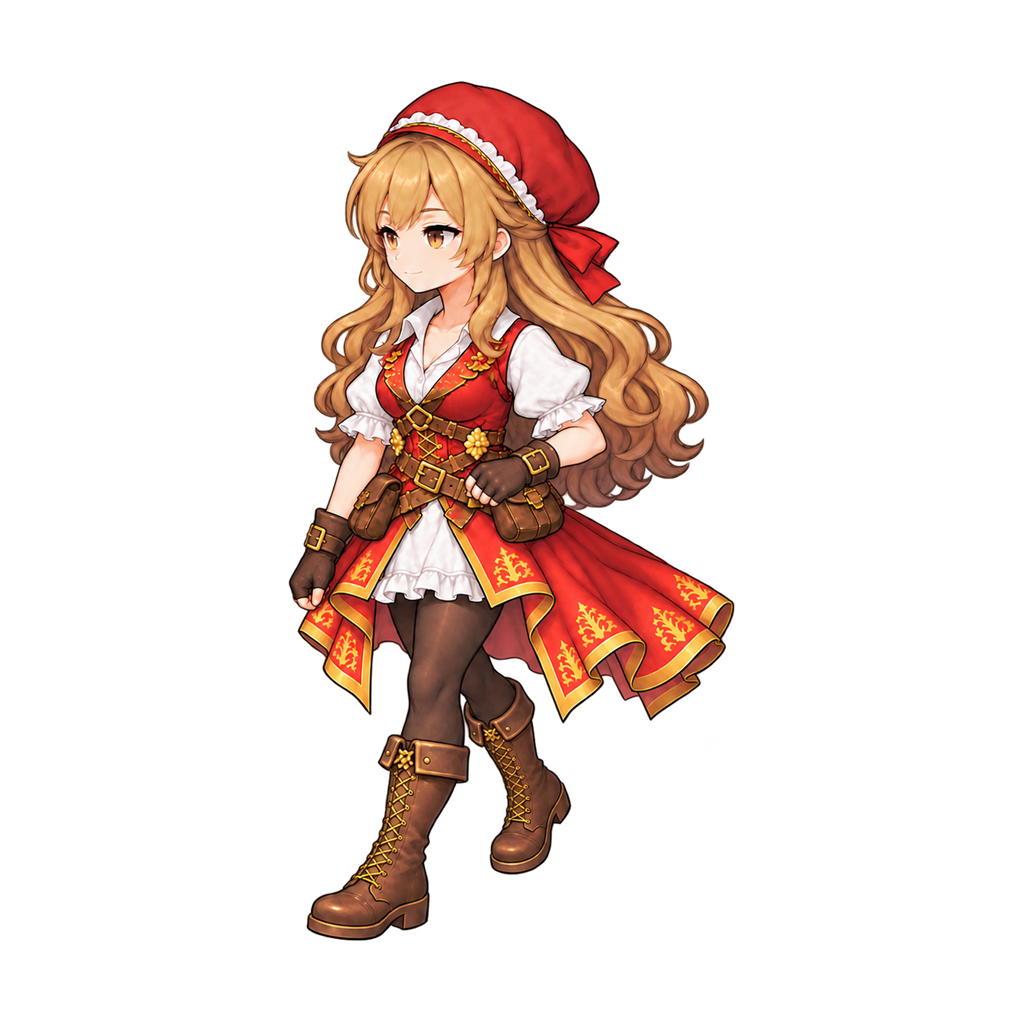
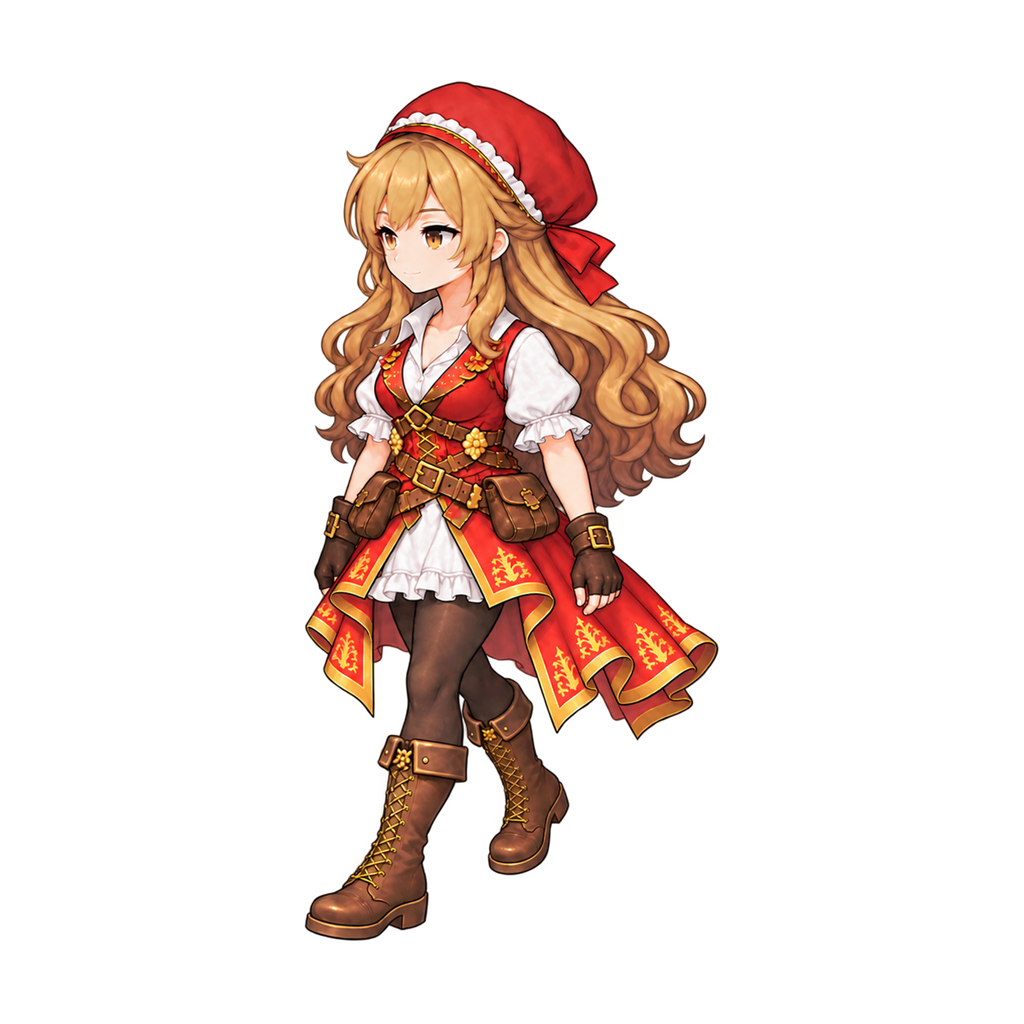
主人公の斜め向きの歩きをゲームに入れる（左下・右下・左上・右上。右は左の反転）
- 歩きの絵のシートに斜めの4行を足す（adult_walk_build.py に --diag。1枚ずつ背の高さをそろえる）
- 斜めに1歩進むと斜めの絵を使う。セーブや「しらべる」の向きは上下左右のまま
- 女性の斜め前の右足前は新しい版を採用（前の版は _old で保管）。左足前は最初に届いた版を使う
- 引き継ぎメモを更新

Claude-Session: https://claude.ai/code/session_01Hh9KBirM4TSyGEjgFpdddq

diff --git a/src/ui/screens/worldScreen.ts b/src/ui/screens/worldScreen.ts
@@ -151,11 +151,17 @@ const FRAME_H = 288;
 const FOOT_X = 108;
 const FOOT_Y = 270;
 const DIR_ROW: Readonly<Record<Direction, number>> = { down: 0, up: 1, left: 2, right: 3 };
+/** 主人公の斜め向き（絵の向きだけ。セーブや「しらべる」の向きは上下左右の Direction のまま） */
+type Diagonal = 'downleft' | 'downright' | 'upleft' | 'upright';
+/** 主人公のシートの斜め向きの行（上下左右の4行の下に足した4行） */
+const DIAG_ROW: Readonly<Record<Diagonal, number>> = { downleft: 4, downright: 5, upleft: 6, upright: 7 };
+/** 主人公のシートの行の数 */
+const PLAYER_SHEET_ROWS = 8;
 /** 待機の絵が歩行シートの何列目と同じか（歩き4コマは「右足を前・立つ・左足を前・立つ」なので2列目） */
 const NPC_IDLE_COL = 1;
 
 /**
- * 主人公の絵：歩き4コマ＋立ち止まり1コマを1枚にまとめたシート（5列×4行）。
+ * 主人公の絵：歩き4コマ＋立ち止まり1コマを1枚にまとめたシート（5列×8行。行は 正面・背中・左・右・左下・右下・左上・右上）。
  * 歩く・止まるで別の画像に切り替えると、iPhone で読み込み直しの間だけ人物が消えるので、1枚の中で位置だけ動かす。
  * 2026-10-23 の大人の絵（男性・女性。tools/art/adult_walk_build.py が作る。右足を前・立つ・左足を前・立つ・立ち止まり）
  */
@@ -201,7 +207,7 @@ const TILE_CLASS: Readonly<Record<string, string>> = {
 const coins = (n: number): string => t('common.coins', { n } satisfies Params);
 
 /**
- * 1歩の向き → 人物の向き（斜めの絵は無い）。
+ * 1歩の向き → 人物の向き（上下左右。主人公の斜めの絵は別に #diag で選ぶ）。
  * いまの向きの成分がある斜め（例：右を向いて右下へ）は向きを変えない。斜め45度あたりで正面と横の絵が細かく入れ替わらないように。
  * それ以外の斜めは左右の絵
  */
@@ -211,6 +217,10 @@ const facing = (dx: number, dy: number, prev: Direction): Direction => {
   if ((p.x !== 0 && p.x === dx) || (p.y !== 0 && p.y === dy)) return prev;
   return dx > 0 ? 'right' : dx < 0 ? 'left' : dy > 0 ? 'down' : 'up';
 };
+
+/** 1歩の向き → 斜めの絵の向き（斜めでなければ null） */
+const diagonalOf = (dx: number, dy: number): Diagonal | null =>
+  dx !== 0 && dy !== 0 ? `${dy > 0 ? 'down' : 'up'}${dx > 0 ? 'right' : 'left'}` : null;
 
 /** 2つの角度の差（-π〜π） */
 const angleDiff = (a: number, b: number): number => Math.atan2(Math.sin(a - b), Math.cos(a - b));
@@ -241,6 +251,8 @@ class WorldView {
   #pos: Point = { x: 0, y: 0 };
   #tile: Point = { x: 0, y: 0 };
   #dir: Direction = 'down';
+  /** 斜めに1歩進んだときの絵の向き（上下左右へ進む・向きを変えると null） */
+  #diag: Diagonal | null = null;
   #move: Move | null = null;
   #path: Point[] = [];
   /** 経路の最後に話しかける・調べる物 */
@@ -364,6 +376,7 @@ class WorldView {
     this.#tile = { x: loc.x, y: loc.y };
     this.#pos = { ...this.#tile };
     this.#dir = loc.dir;
+    this.#diag = null;
     this.#move = null;
     this.#path = [];
     this.#afterPath = null;
@@ -506,7 +519,7 @@ class WorldView {
     this.#sizeFigure(this.#player);
     // 絵は最初に1回だけ設定する（あとは位置だけ動かす）
     this.#player.style.backgroundImage = `url("${PLAYER_SHEET[save.player.gender === 'female' ? 'female' : 'male']}")`;
-    this.#player.style.backgroundSize = `${parseFloat(this.#player.style.width) * PLAYER_SHEET_COLS}px ${parseFloat(this.#player.style.height) * 4}px`;
+    this.#player.style.backgroundSize = `${parseFloat(this.#player.style.width) * PLAYER_SHEET_COLS}px ${parseFloat(this.#player.style.height) * PLAYER_SHEET_ROWS}px`;
     this.#addShadow(this.#player);
     this.#playerLook = '';
     this.#mapLayer.append(this.#player);
@@ -711,6 +724,7 @@ class WorldView {
       this.#afterPath = null;
       if (cell) {
         this.#dir = this.#dirTo(cell);
+        this.#diag = null;
         this.#interactAt(cell.x, cell.y);
       }
       return;
@@ -728,12 +742,14 @@ class WorldView {
   /** (dx, dy) へ1歩。斜めで進めないときは、進める方の縦か横へすべる（スティック操作のとき）。進めたら true */
   #tryStep(dx: number, dy: number, slide: boolean): boolean {
     this.#dir = facing(dx, dy, this.#dir);
+    this.#diag = diagonalOf(dx, dy);
     const from = this.#tile;
     const tries: [number, number][] = [[dx, dy]];
     if (slide && dx !== 0 && dy !== 0) tries.push([dx, 0], [0, dy]);
     for (const [sx, sy] of tries) {
       if (canStep(from, sx, sy, this.#blocked)) {
         this.#dir = facing(sx, sy, this.#dir);
+        this.#diag = diagonalOf(sx, sy);
         this.#move = { from, to: { x: from.x + sx, y: from.y + sy }, len: sx !== 0 && sy !== 0 ? Math.SQRT2 : 1, t: 0 };
         return true;
       }
@@ -782,9 +798,10 @@ class WorldView {
     const stride = this.#figureH * (this.#running ? RUN_STEP_PER_HEIGHT : STEP_PER_HEIGHT);
     const step = Math.floor(this.#walkDist / (stride / 2)) % 4;
     const col = walking ? step : IDLE_COL;
-    const look = `${this.#dir}:${col}`;
+    const row = this.#diag ? DIAG_ROW[this.#diag] : DIR_ROW[this.#dir];
+    const look = `${row}:${col}`;
     if (look !== this.#playerLook) {
-      this.#player.style.backgroundPosition = `${-col * w}px ${-DIR_ROW[this.#dir] * hgt}px`;
+      this.#player.style.backgroundPosition = `${-col * w}px ${-row * hgt}px`;
       this.#playerLook = look;
     }
     this.#placeFigure(this.#player, p, walking && step % 2 === 1 ? this.#figureH * (this.#running ? RUN_BOB : WALK_BOB) : 0);
@@ -961,6 +978,7 @@ class WorldView {
       const here = adjacentCellOf(target, from);
       if (here && !this.#move) {
         this.#dir = this.#dirTo(here);
+        this.#diag = null;
         this.#interactAt(here.x, here.y);
         return;
       }
@@ -1005,6 +1023,7 @@ class WorldView {
     const near = this.#nearTarget();
     if (near) {
       this.#dir = this.#dirTo(near);
+      this.#diag = null;
       if (this.#interactAt(near.x, near.y)) return;
     }
     // 欠片：正式な絵の街ではマスが細かいので、まわり2マスまで

diff --git a/tools/art/adult_walk_build.py b/tools/art/adult_walk_build.py
@@ -20,6 +20,9 @@
   1.5 も試したが、iPhone で絵が大きすぎて歩くときにコマが飛んだ（2026-10-23）
 --tone：大人向けの色の落ち着かせ（彩度 0.72・明るさ 0.94・コントラスト 1.06）を絵に焼き込む（2026-10-23 追加）。
   それまでは CSS の filter で毎回計算していて、歩くたびに描き直しが重くなっていた
+--diag：斜め向きの4行を足す（主人公だけ。2026-10-23 追加）。行は 正面・背中・左・右・左下・右下・左上・右上 の8行になる。
+  届く絵は1枚に1ポーズ：{ID}_{downleft,upleft}_{stand,rightfoot,leftfoot}.png（1024×1024 か 1254×1254）。
+  絵ごとに大きさが違うので、1枚ずつ背の高さ（頭のてっぺん〜足元）を FIGURE_H にそろえる。右下・右上は左下・左上の左右反転
 """
 import sys
 
@@ -105,6 +108,29 @@ def poses(sheet: Image.Image, k: float) -> list[Image.Image]:
     return [place(wins[0], cx, k)] + [place(w, cx - body_shift(ref, alpha(w)), k) for w in wins[1:]]
 
 
+def diag_poses(folder: str, cid: str, d: str) -> list[Image.Image]:
+    """斜め向き（d＝downleft / upleft）の 立つ・右足を前・左足を前 の3コマ。
+    1枚ずつ背の高さを FIGURE_H にそろえ、足を出した2つは上半身が「立つ」と重なる位置に"""
+    ims = [Image.open(f'{folder}/{cid}_{d}_{p}.png').convert('RGBA') for p in ('stand', 'rightfoot', 'leftfoot')]
+    heights = []
+    for im in ims:
+        ys = np.nonzero(alpha(im).any(axis=1))[0]
+        heights.append(int(ys[-1] - ys[0]))
+    # 上半身の重なりは、背の高さをそろえた（REF_H）大きさの形で比べる
+    REF_H = 860
+    norm = [REF_H / hh for hh in heights]
+    masks = [np.array(Image.fromarray(alpha(im)).resize((round(im.width * n), round(im.height * n)), Image.NEAREST)) for im, n in zip(ims, norm)]
+    w = max(m.shape[1] for m in masks)
+    hh = max(m.shape[0] for m in masks)
+    padded = [np.pad(m, ((0, hh - m.shape[0]), (0, w - m.shape[1]))) for m in masks]
+    cx = body_center(padded[0])
+    out = []
+    for i, (im, n) in enumerate(zip(ims, norm)):
+        anchor = cx if i == 0 else cx - body_shift(padded[0], padded[i])
+        out.append(place(im, anchor / n, FIGURE_H / heights[i]))
+    return out
+
+
 def figure_height(sheet: Image.Image) -> int:
     """正面の「立つ」ポーズの人物の高さ（頭のてっぺん〜足元）"""
     ys = np.nonzero(alpha(split_poses(sheet)[0]).any(axis=1))[0]
@@ -145,8 +171,14 @@ def main() -> None:
         stand, right_fwd, left_fwd = poses(sheet, k)
         rows.append([right_fwd, stand, left_fwd, stand] + ([] if npc else [stand]))
     rows.append([f.transpose(Image.FLIP_LEFT_RIGHT) for f in rows[2]])
+    if '--diag' in args:
+        for d in ('downleft', 'upleft'):
+            stand, right_fwd, left_fwd = diag_poses(folder, cid, d)
+            row = [right_fwd, stand, left_fwd, stand] + ([] if npc else [stand])
+            rows.append(row)
+            rows.append([f.transpose(Image.FLIP_LEFT_RIGHT) for f in row])
     cols = len(rows[0])
-    out = Image.new('RGBA', (FW * cols, FH * 4), (0, 0, 0, 0))
+    out = Image.new('RGBA', (FW * cols, FH * len(rows)), (0, 0, 0, 0))
     for r, frames in enumerate(rows):
         for c, f in enumerate(frames):
             out.alpha_composite(f, (c * FW, r * FH))

diff --git a/docs/handoff.md b/docs/handoff.md
@@ -16,14 +16,14 @@
 | 街・部屋 | 大人向けの描き直し（2026-10-23 納品の36枚）を公開済み。部品の原本は `design-parts/seimon-world/`、組み立ては `tools/design/seimon_world_build.py`（`assets/images/maps/` と `src/data/worldArt.generated.ts` を作る） |
 | デザインの方向 | **もう少し大人向けにする**（2026-10-23 ユーザー方針。いまの街などは小学生向けの見た目、という評価）。2026-10-23 にゲーム側でやったこと（main に反映・2026-10-23 に `7f0aa2b` を公開）：確認の窓をすべて「はい／いいえ」に、画面の色を濃い灰色＋くすんだ金に（紫・明るい黄色をやめた。`src/style.css` ほか）、ボタンの角を控えめに、タイトルを明朝体に、街・部屋・人物の絵に色の調整（`world.css` の `filter`：彩度 0.72）、ひらがなの多い言葉を漢字に（最初から／続きから・調べる など）。絵そのものの描き直しは依頼一式 `docs/design/adult-redesign-20261023/`（まず主人公の家1枚 → 比較 → 残り）。→ 2026-10-23 に描き直しが届き、街・部屋・家具の `filter` は外した（人物だけ残す。作業ブランチ） |
 | 登場人物の年齢 | **主人公（男性・女性）と案内役は20代前半、ほかの人は20代〜50代**（子ども・お年寄りは出さない。2026-10-22 ユーザー決定）。主人公の選択は「男性／女性」。描き直しの依頼一式は `docs/design/characters-adult-20261022/`（AIには設定画・正面の立ち姿・歩き3枚〔1枚に3ポーズ〕だけ頼み、右向きの反転・切り抜き・コマ並べは Claude） |
-| 人物の歩行の絵 | 大人の人物（主人公2人・案内役・店員・研究員・受付・先生・住人A〜E）を公開済み。原本は `design-parts/characters-adult/`、ゲーム用シートは `tools/art/adult_walk_build.py --scale 1.25 --tone`（1コマ 270×360・WebP・色の落ち着かせを焼き込み）。いまは4方向（右は左の反転）×「右足前・立つ・左足前・立つ」 |
+| 人物の歩行の絵 | 大人の人物（主人公2人・案内役・店員・研究員・受付・先生・住人A〜E）を公開済み。原本は `design-parts/characters-adult/`、ゲーム用シートは `tools/art/adult_walk_build.py --scale 1.25 --tone`（1コマ 270×360・WebP・色の落ち着かせを焼き込み）。いまは4方向（右は左の反転）×「右足前・立つ・左足前・立つ」。主人公は斜め4方向も（下の行） |
 | 序盤イベント | 公開済み。案内役（となりの家の女性）の会話の絵6表情・歩行の絵は正式。名前は仮の「隣家の女性」のまま |
 | 直近の公開 | **`9daccb6`（2026-10-23）：コマ飛び対策・主人公の横幅 1.1 倍。** その前は **`07a768c`（2026-10-23）：人物1.2倍・走る・なめらかな歩き出しとカメラ。** その前は **`a2b5b51`（2026-10-23。ユーザーの「公開して」による）：歩きのカクつきの修正。** その前は **`bd4fcb4`（2026-10-23。ユーザーの「公開して」による）：大人向けの街・部屋・人物・歩き方（作業ブランチ `claude/happy-bardeen-1jlos0` を main にマージ）。**ユーザーの iPhone 確認 OK（2026-10-23）**。その前は `7f0aa2b`（2026-10-23）：大人向けの見た目（確認の窓をすべて「はい／いいえ」・ふつうのボタン・落ち着いた色・言葉づかい・街の絵の色調整）。**ユーザーの iPhone 確認 OK（2026-10-23）**。その前の公開は `d4ac1a2`（詰めた街＋ミスモン素材） |
 | ミスモン素材 | 2026-10-22（公開済み）：BGM 7曲（`src/ui/bgm.ts`。タイトル・街・大会の受付・大会の対戦・ダンジョン・対戦・ボス）、ダンジョンの対戦の背景（階ごと）と宝箱の絵・開く動き、大会の景品のアイコン、金貨。ボタン（青・赤の金枠）は 2026-10-23 にユーザー指示でやめ、ふつうのボタンに戻し、タイトルの「はじめから」の確認は「はい／いいえ」に（main に反映・2026-10-23 に `7f0aa2b` を公開）。モンスター・技・NPC・闘技場の背景などは**使わない**（ユーザー指示）。調査の一覧は `docs/mismon-reuse-candidates.md` |
 | 歩き方（公開済み） | 2026-10-23 に3回公開（`a2b5b51`→`07a768c`→`9daccb6`）：マスごとに1コマ止まっていたのを直す、地図の位置を画面の画素でそろえる、人物 1.2 倍（`FIGURE_ZOOM`）・主人公の横幅 1.1 倍（`PLAYER_WIDEN`）、走る（スティックを大きく倒す 36px 以上で 1.7 倍。パソコンは Shift。走る絵は無いので歩きの絵を大きな歩幅で）、歩き出しの加速・止まる前の減速、カメラが少し遅れて追う（`CAMERA_FOLLOW`）、iPhone のコマ飛び対策（人物の色調整を絵に焼き込み、主人公を別の層に、毎コマの余計な書き換えを減らす）。**コマ飛び対策の効果は iPhone で未確認**（作業環境の Chromium では再現しなかった）。すべて `src/ui/screens/worldScreen.ts` |
-| 斜め向きの歩きの絵 | **まだゲームに入れていない**（原本を集めている途中）。原本は `design-parts/characters-adult/player_{male,female}_{downleft,upleft}_{stand,rightfoot,leftfoot}.png`（斜め前＝左下・斜め後ろ＝左上。右は左右反転で作る）。**男性6枚：そろった（採用）**。うち斜め前の右足前・左足前は別の生成AIの対の2枚で、キャンバス 1254×1254・背の高さ約1080（ほかは 1024×1024・約860）→ 組み込むときは1枚ずつ背の高さでそろえる。**女性：斜め前の立ち姿・斜め後ろの3枚は採用。斜め前の右足前は新しい版 `player_female_downleft_rightfoot_v3.png` を使うかユーザー確認待ち（ベルトをつかむ手が直った）。斜め前の左足前は作り直し待ち**（届いた版は右足が前になっていて使えない。作り直し3回目の一式 `docs/design/diagonal-20261023/v2/fix-female-downleft-leftfoot-3/`・ZIP はユーザーに渡し済み。男性の左足前を足の並びの手本にした）。依頼のやり方は「1枚に1ポーズ・まず立ち姿→足だけ変える」（`docs/design/diagonal-20261023/v2/`）。確認では細部に加え「進む方向に体と足が向いているか・足がねじれていないか・右足前と左足前が対か（足元だけ並べて見る）」を見る。**組み込みの予定**：シートに斜めの行（4行＝左下・右下・左上・右上）を足し、`facing` を8方向に、斜めの入力のとき斜めの絵を使う |
+| 斜め向きの歩きの絵 | **ゲームに入れた（作業ブランチ `claude/gifted-lovelace-0lvywt`・未公開。2026-10-23 ユーザー「いま渡しているもので全部。反映して」）**。主人公だけ、斜めに進むと斜めの絵（左下・右下・左上・右上。右は左の反転）。シートは8行（正面・背中・左・右・左下・右下・左上・右上）×5列、`tools/art/adult_walk_build.py … --scale 1.25 --tone --diag` で作る（斜めは1枚ずつ背の高さをそろえる）。原本は `design-parts/characters-adult/player_{male,female}_{downleft,upleft}_{stand,rightfoot,leftfoot}.png`。女性の斜め前の右足前は新しい版（旧 v3）を採用し、前の版は `_old` で保管。**女性の斜め前の左足前は最初に届いた版**（足の前後は正しいが、少しねじれて見える。作り直しは届かなかった）。ゲームの向き（セーブ・「しらべる」）は上下左右のまま、絵だけ8方向（`worldScreen.ts` の `#diag`）。シートが2倍の大きさ（1350×2880）になったので、iPhone でコマ飛びが出ないかは未確認 |
 | 画面のデザイン10枚 | **2026-10-23 依頼中**（ユーザー「いまのうちに質を上げるデザインを10枚くらい」）：タイトル背景・大会の対戦の背景・カードの裏面・メニュー画面の共通背景・窓の枠・見出しの帯・一覧のパネル・店員と受付の顔の絵（会話とバトルで共通の「顔の絵の形」の見本）・カードパック3種。一式 `docs/design/ui-quality-20261023/`、ZIP はユーザーに渡し済み。届いたら今の画面と並べて比べ、ユーザーが決めてから組み込む |
-| 次の作業 | **新しいセッションでは、ユーザーの次の指示を待つ**。届く予定のもの：①女性の斜め前・左足前（作り直し3回目）→ 足元を並べて確認 → 女性の右足前 v3 の採否も聞く → 男女そろったら斜めの歩きをゲームに組み込み（上の「斜め向きの歩きの絵」）②画面のデザイン10枚（上の行）→ 今の画面と並べた比較を返してから組み込み。ユーザーが渡した依頼で未着のもの：歩きの「半歩」の絵（`docs/design/walk-inbetween-20261023/`）、走る絵（`docs/design/run-20261023/`）。そのほかの候補（指示があってから）：案内役が先導して歩く動き、住人の会話・呼び名の正式化、会話とバトルで共通の「顔の絵」（デザイン10枚の店員・受付が最初の見本） |
+| 次の作業 | **斜めの歩き（作業ブランチ）をユーザーに見てもらい、「公開して」で main にマージして公開**。届く予定：画面のデザイン10枚 → 今の画面と並べた比較を返してから組み込み。ユーザーが渡した依頼で未着のもの：歩きの「半歩」の絵（`docs/design/walk-inbetween-20261023/`）、走る絵（`docs/design/run-20261023/`）。そのほかの候補（指示があってから）：案内役が先導して歩く動き、住人の会話・呼び名の正式化、会話とバトルで共通の「顔の絵」 |
 
 ## 2. これまでの作業（時系列・要点だけ）
 
